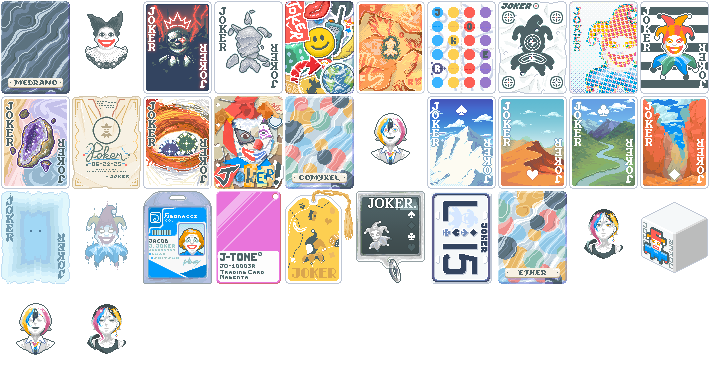
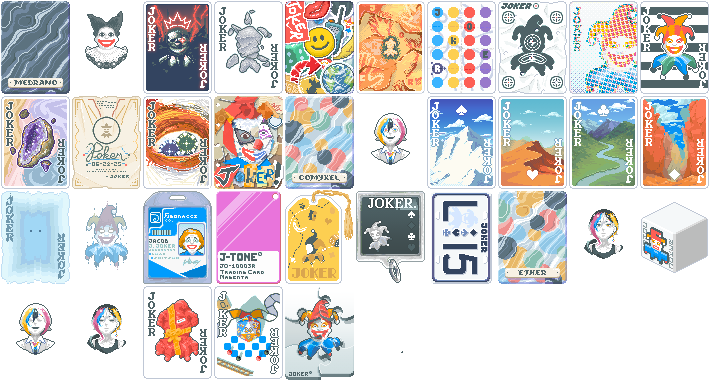
joekrdrop

Changed region(s): [[0.1859, 0.7526, 0.4958, 1.0]]

diff --git a/assets/1x/resize.py b/assets/1x/resize.py
@@ -1,0 +1,25 @@
+import sys
+from PIL import Image
+import os
+import time
+
+def upscale_pixel_art(input_image, output_directory, input_image_path):
+    # Double the size
+    new_size = (input_image.width * 2, input_image.height * 2)
+    resized_image = input_image.resize(new_size, Image.NEAREST)  # NEAREST resampling preserves pixelation
+
+    # Save the resized image
+    filename = os.path.basename(input_image_path)
+    output_image_path = os.path.join(output_directory, filename)
+    resized_image.save(output_image_path)
+
+if __name__ == "__main__":
+    if len(sys.argv) < 2:
+        print("Usage: py resize.py <input_image>")
+        sys.exit(1)
+
+    input_image_path = sys.argv[1]
+    input_image = Image.open(input_image_path)
+
+    output_directory = "../2x/"
+    upscale_pixel_art(input_image, output_directory, input_image_path)
